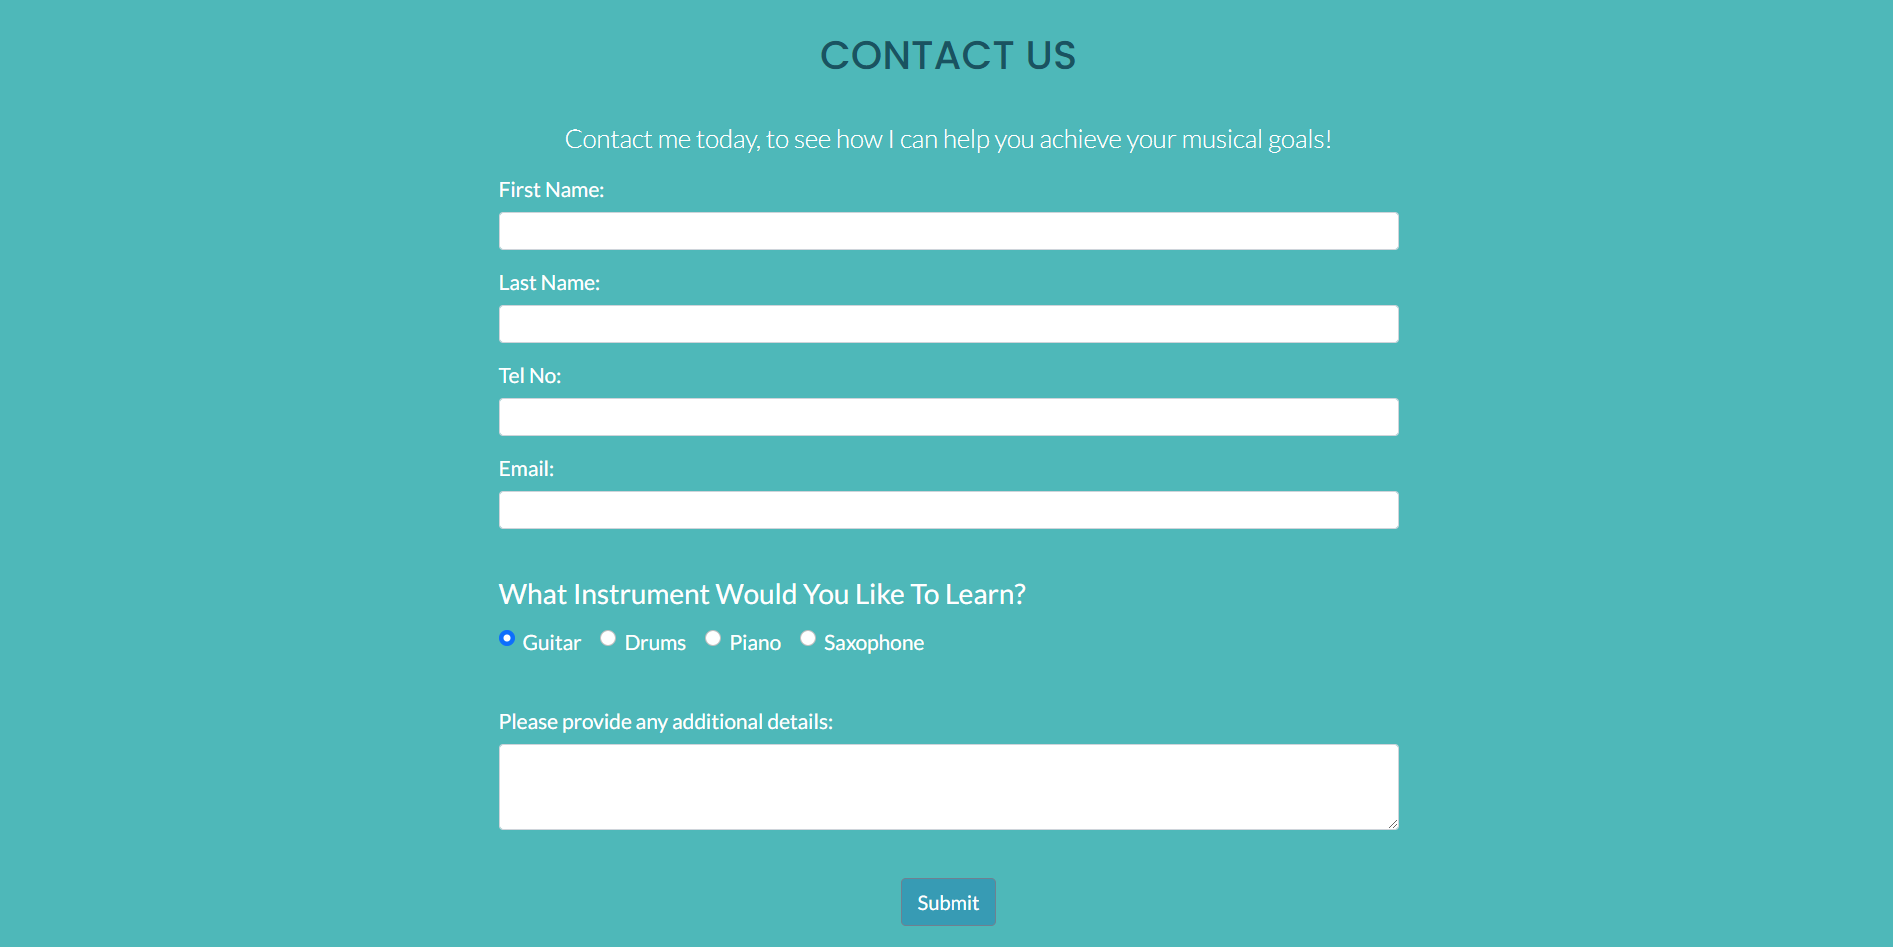
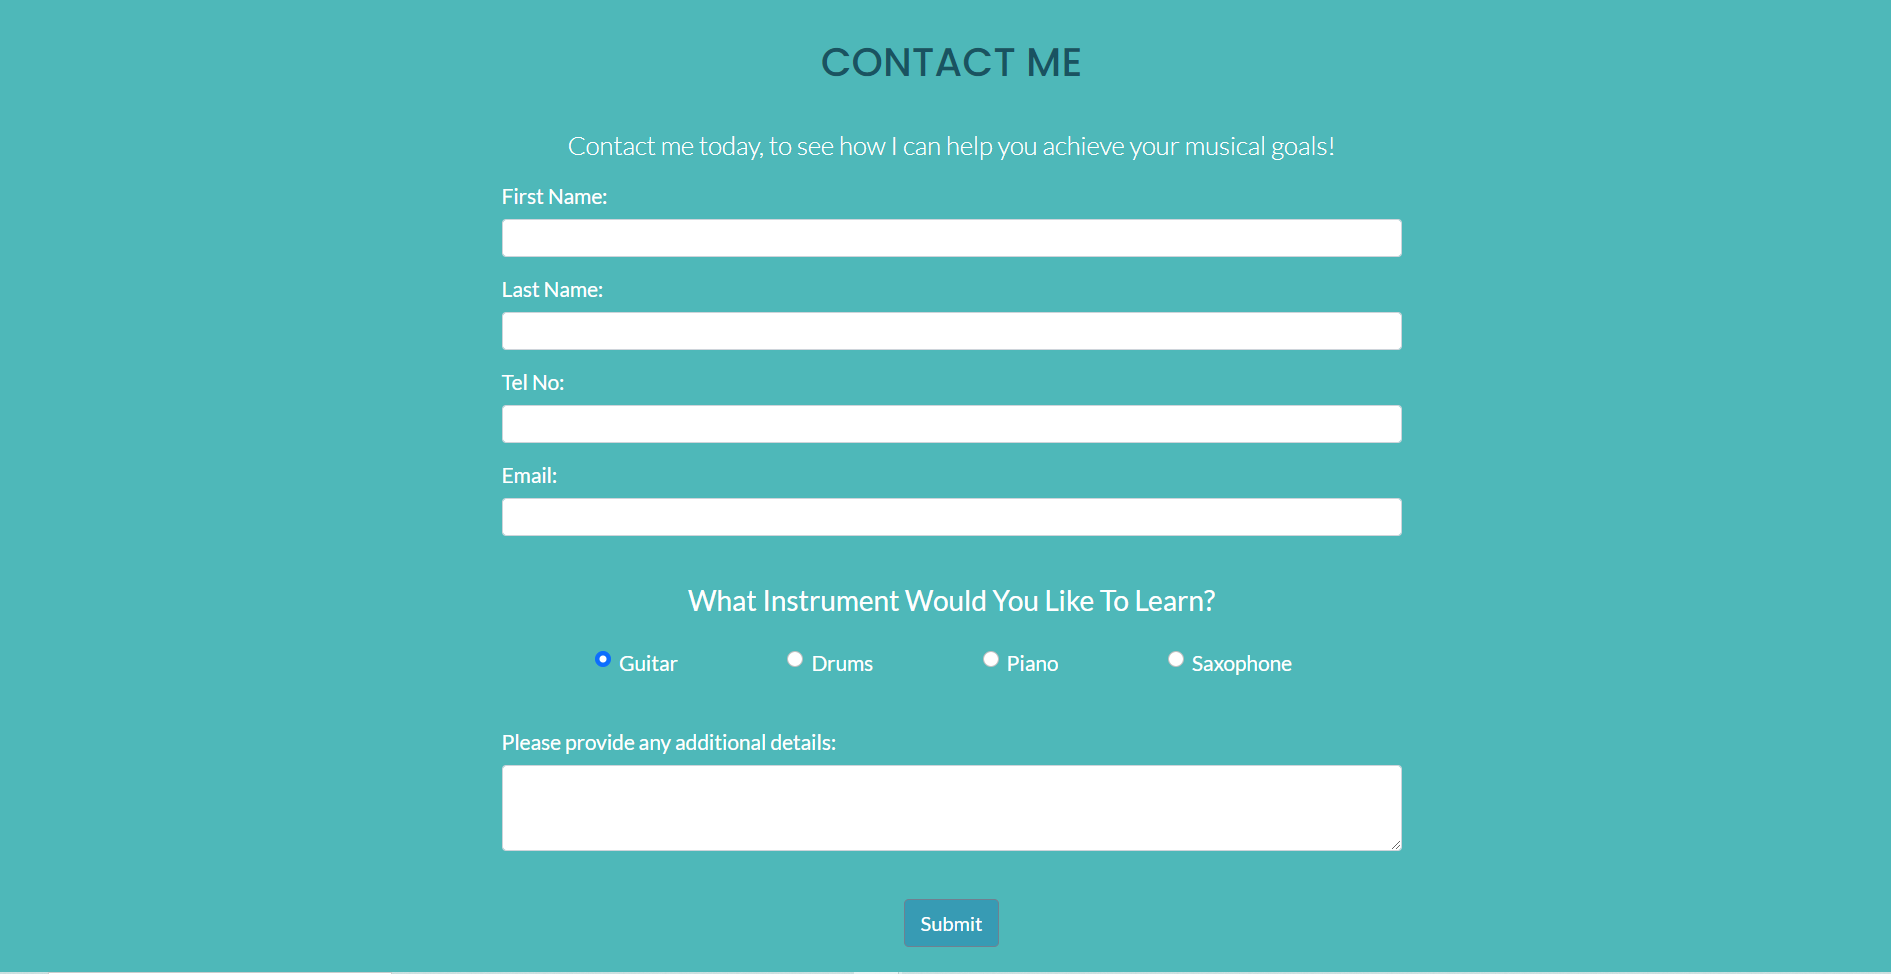
Amended contact link to Contact Me from Contact Us.
Imported new image of the contact form, following amendments to the styling of the instrument radio buttons

diff --git a/index.html b/index.html
@@ -52,7 +52,7 @@
                         <a class="nav-link" href="#testimonials">Testimonials</a>
                     </li>
                     <li class="nav-item mr-2">
-                        <a class="nav-link" href="#contact-form">Contact Us</a>
+                        <a class="nav-link" href="#contact-form">Contact Me</a>
                     </li>
                 </ul>
             </div>
